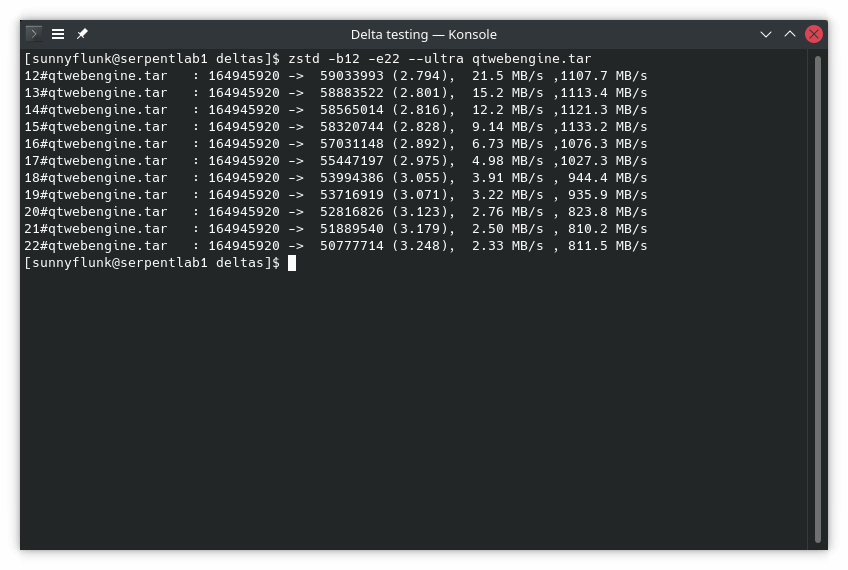
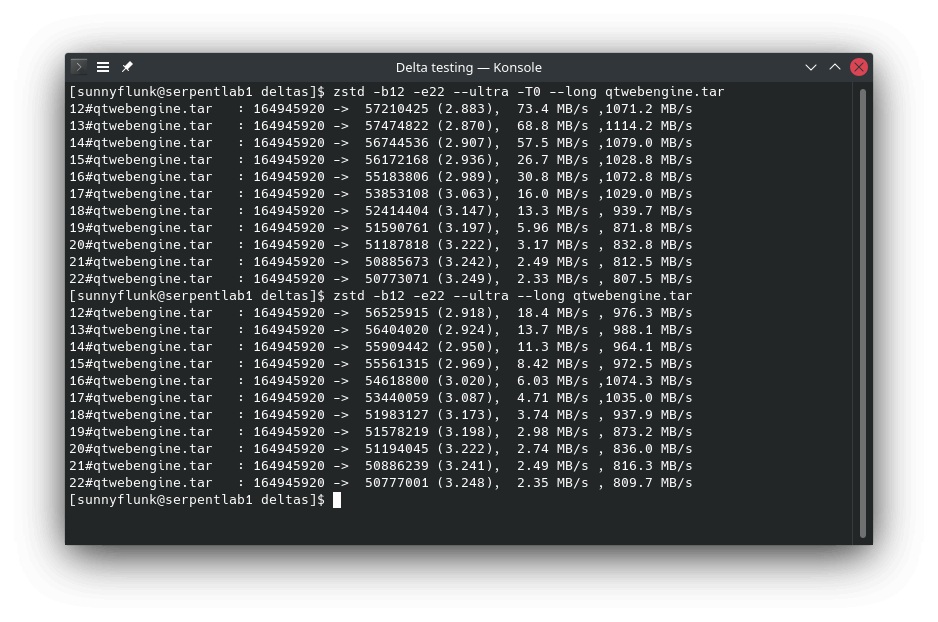
blog: Update delta blog results to use --long
As it no longer takes a long time with multi-threading xD

diff --git a/content/blog/optimising-package-distribution.md b/content/blog/optimising-package-distribution.md
@@ -44,13 +44,13 @@ This is of course due to the amazing decompression speeds where `zstd` is magnit
 {{<figure_screenshot_one image="optimising-package-distribution/Featured" caption="Compression levels with zstd">}}
 
 With maximum compression, large packages can take over a minute to compress. With a moderate increase in size, one can
-reduce compression time by 2-5x. While making me happier as a developer, it does create extra network load during
+reduce compression time by 2-10x. While making me happier as a developer, it does create extra network load during
 updates.
 
-| Full Package    | zstd -16 | zstd -19 | zstd -22 | xz -9  |
-|-----------------|----------|----------|----------|--------|
-| Time to create  | 25.6s    | 56.0s    | 70.6s    | 66.5s  |
-| Size of package | 54.4MB   | 51.2MB   | 48.4MB   | 45.9MB |
+| Full Package    | zstd -16 -T0 | zstd -16 | zstd -19 -T0 | zstd -19 | zstd -22 | xz -9  |
+|-----------------|--------------|----------|--------------|----------|----------|--------|
+| Time to create  | 5.4s         | 26.8s    | 27.8s        | 56.0s    | 70.6s    | 66.5s  |
+| Size of package | 52.6MB       | 52.6MB   | 49.2MB       | 49.2MB   | 48.4MB   | 45.9MB |
 
 #### Deltas to the Rescue!
 
